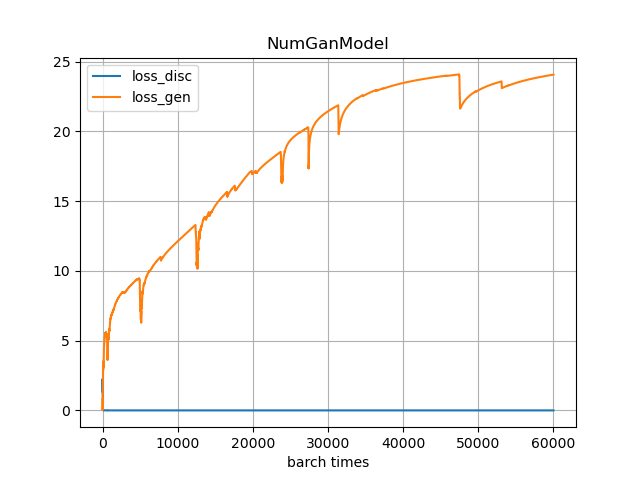
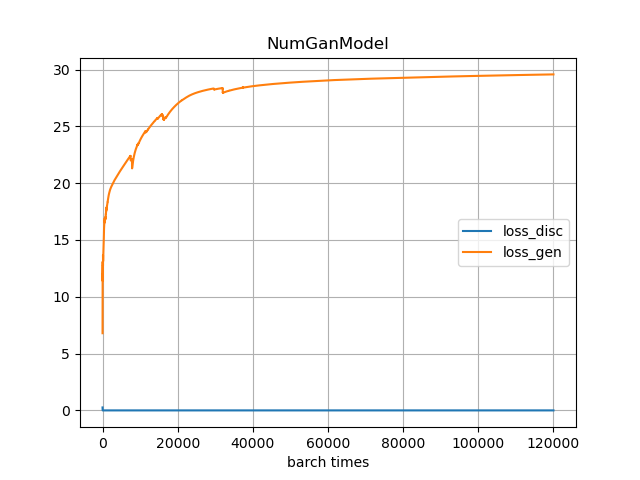
model4改良后train不起来

diff --git a/AI-Stu/03-GenerativeAdversarialNetwork/handwrite_number_gen1/NumGanModel4.py b/AI-Stu/03-GenerativeAdversarialNetwork/handwrite_number_gen1/NumGanModel4.py
@@ -4,11 +4,6 @@ from NumGanModel3 import NumGanModel3
 
 class NumGanModel4(NumGanModel3):
 
-    def __init__(self):
-        super().__init__()
-        # 定义模型的优化器
-        self.DiscOptimiser = torch.optim.Adam(self.DiscModel.parameters(), lr=0.01)
-
     def TrainEpoch(self, train_iter):
         self.DiscModel.train()
         self.GenModel.train()
@@ -16,7 +11,7 @@ class NumGanModel4(NumGanModel3):
             tags = tags.to(device='cuda', dtype=torch.float)
             imgs = imgs.to(device='cuda', dtype=torch.float)
             # 掺杂生成器数据
-            g_tag_seed = torch.rand(tags.size(0), 100).to(device='cuda', dtype=torch.float)
+            g_tag_seed = torch.randn(tags.size(0), 100).to(device='cuda', dtype=torch.float)
             g_imgs = self.GenModel(g_tag_seed).detach()
             g_imgs = g_imgs.view(g_imgs.size(0), 1, 28, 28)
             g_tags = torch.full((g_tag_seed.size(0),), 0, dtype=torch.float, device='cuda')
@@ -29,14 +24,13 @@ class NumGanModel4(NumGanModel3):
             loss_disc.backward()
             self.DiscOptimiser.step()
             # 训练生成器
-            g_trian_tag_seed = torch.rand(tags_all.size(0), 100).to(device='cuda', dtype=torch.float)
+            g_trian_tag_seed = torch.randn(tags_all.size(0), 100).to(device='cuda', dtype=torch.float)
             g_train_imgs = self.GenModel(g_trian_tag_seed)
             # 使用生成器生成的图片欺骗鉴别器
             # 如果g_train_tags全1说明欺骗成功（奖励）
             # 如果g_train_tags全0说明欺骗失败（惩罚）
             g_train_tags = self.DiscModel(g_train_imgs)
-            g_train_tags_std = torch.full((g_trian_tag_seed.size(0), 1), 1, dtype=torch.float).to(device='cuda',
-                                                                                                  dtype=torch.float)
+            g_train_tags_std = torch.full((g_trian_tag_seed.size(0), 1), 1, dtype=torch.float, device='cuda')
             # loss_gen越小，说明g_train_tags越接近全1，生成器越成功
             loss_gen = self.DiscLoss(g_train_tags, g_train_tags_std)
             self.GenOptimiser.zero_grad()

diff --git a/AI-Stu/03-GenerativeAdversarialNetwork/handwrite_number_gen1/NumGanModelTrain2.py b/AI-Stu/03-GenerativeAdversarialNetwork/handwrite_number_gen1/NumGanModelTrain2.py
@@ -19,13 +19,13 @@ true_dataloader = DataLoader(true_dataset, batch_size=1, shuffle=True)
 
 # 训练轮次，数据集上全部训练一遍为一轮
 Gan = NumGanModel4()
-train_times = 1
+train_times = 2
 Gan.TrainModel(train_times, true_dataloader)
 
 Gan.GenModel.eval()
 with torch.no_grad():
     gen_size = 50
-    g_seed = torch.rand(gen_size, 100).to(device='cuda', dtype=torch.float)
+    g_seed = torch.randn(gen_size, 100).to(device='cuda', dtype=torch.float)
     gen_img = Gan.GenModel(g_seed)
     # 设置子图的行列数
     num_cols = 10  # 列
